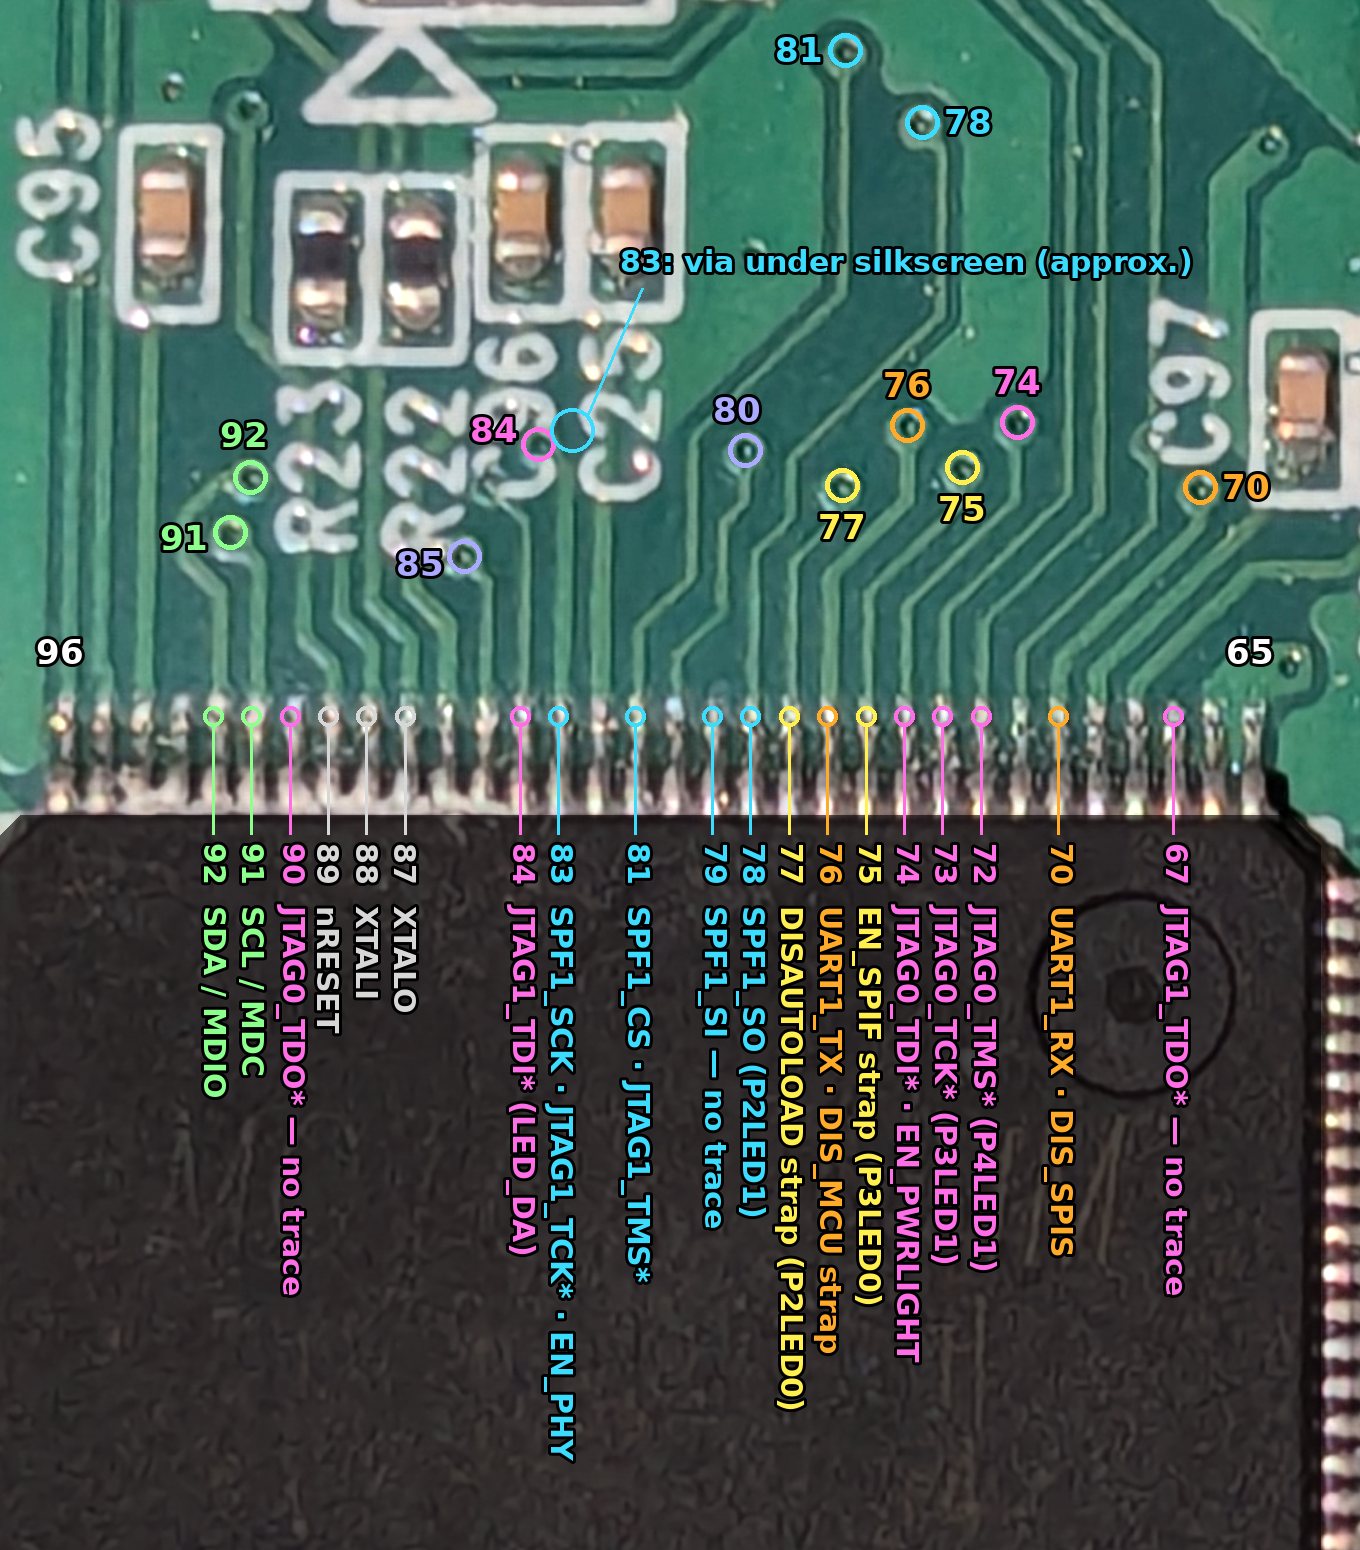
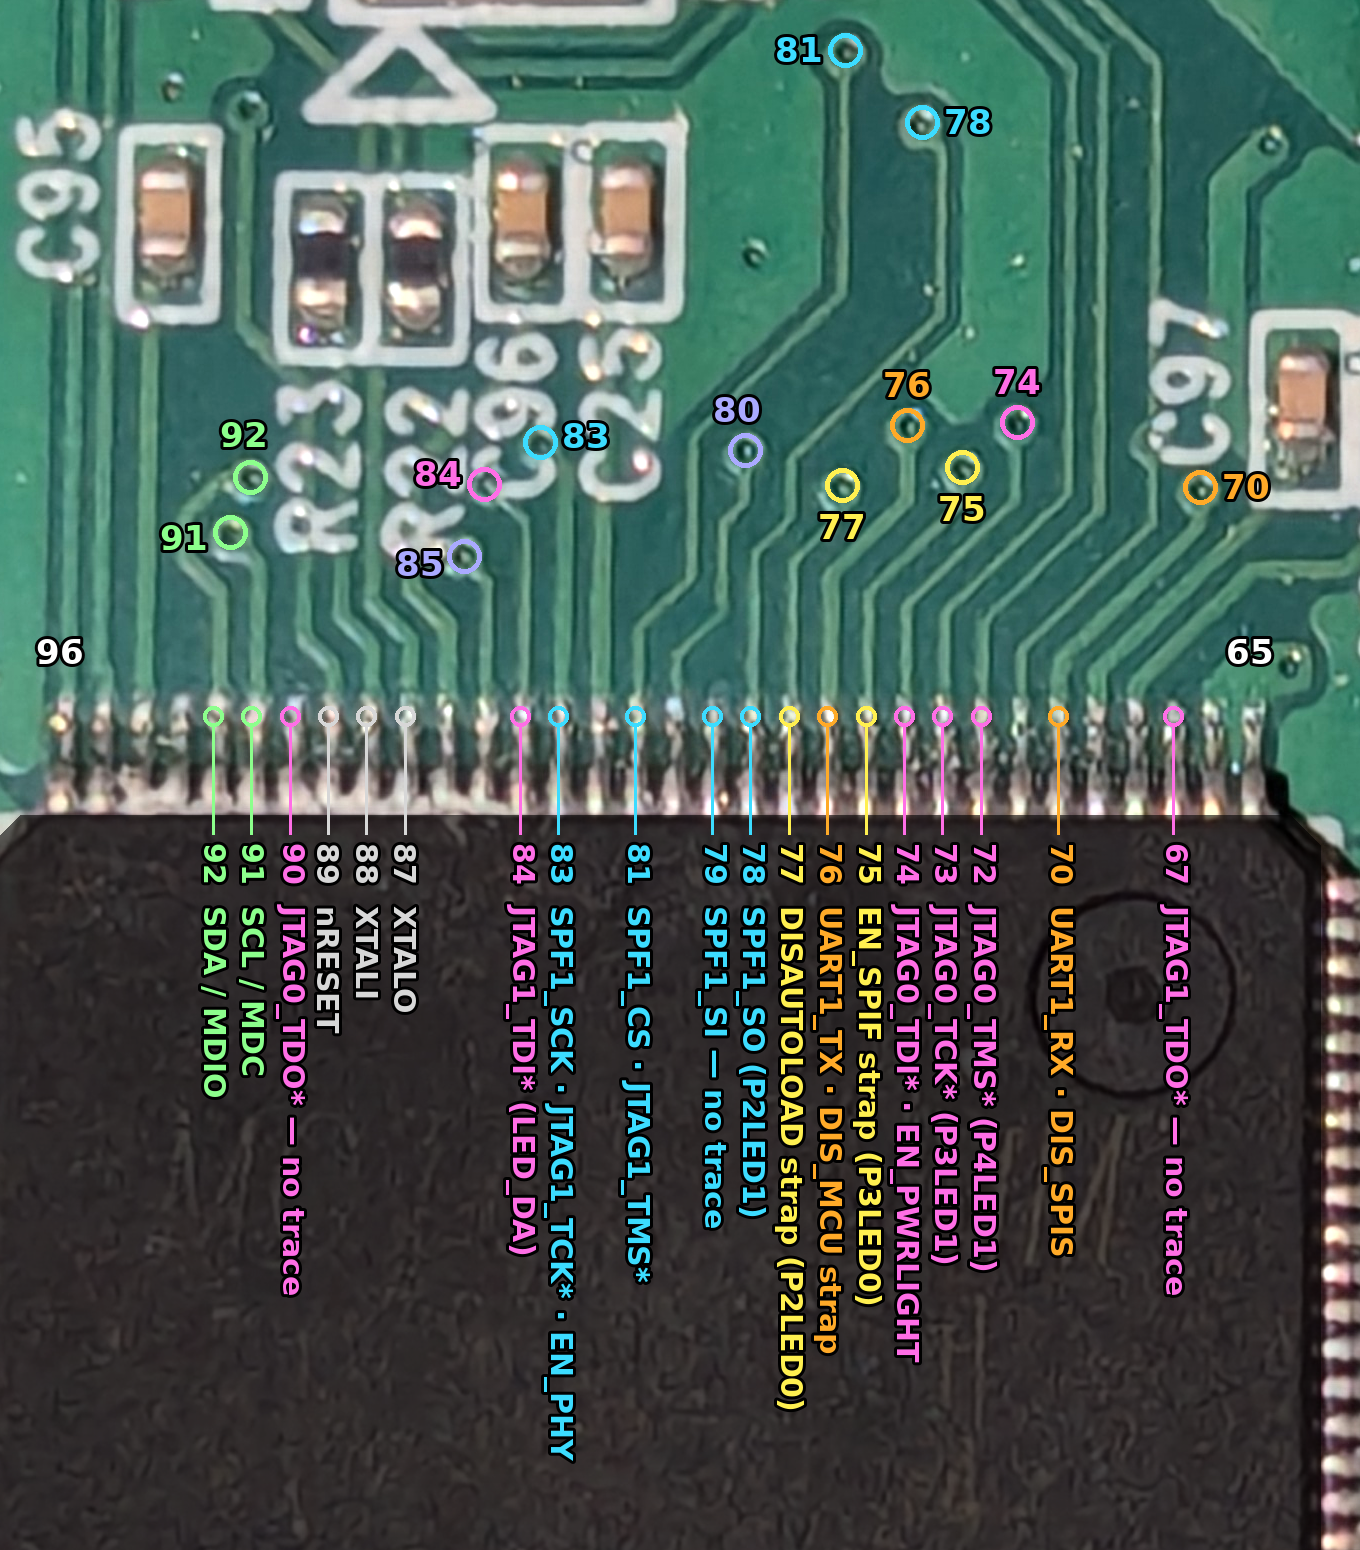
Mark the vias of U4 pins 83 and 84 where their traces end
The trace from the lead of pin 83 ends at the via inside the C of the C96
label, and the trace from pin 84 ends at the via against that label's lower
left edge.

Claude-Session: https://claude.ai/code/session_01T8XQLu2hHeQn1gVyGrjSAf

Changed region(s): [[0.4324, 0.1548, 0.8956, 0.1858], [0.3088, 0.2477, 0.4632, 0.3406]]

diff --git a/research/lx-is601f-board/annotate.py b/research/lx-is601f-board/annotate.py
@@ -123,14 +123,11 @@ c.text(2430, 1232, '65', fs, WHITE, 'mm'); c.text(1240, 1232, '96', fs, WHITE, '
 VIAS = [(80, 1925, 1030, OTHER, -8, -40), (77, 2022, 1065, STRAP, 0, 42), (76, 2087, 1005, UART, 0, -40),
         (75, 2142, 1047, STRAP, 0, 42), (74, 2197, 1002, JTAG, 0, -40), (70, 2380, 1067, UART, 46, 0),
         (78, 2102, 702, SPI, 46, 0), (81, 2025, 630, SPI, -46, 0),
-        (85, 1644, 1136, OTHER, -44, 8), (84, 1718, 1024, JTAG, -44, -14),
+        (85, 1644, 1136, OTHER, -44, 8), (84, 1664, 1064, JTAG, -46, -10), (83, 1720, 1022, SPI, 46, -6),
         (92, 1430, 1057, I2C, -6, -42), (91, 1410, 1112, I2C, -46, 6)]
 for n, x, y, col, dx, dy in VIAS:
     c.ring(x, y, col)
     c.text(x + dx, y + dy, str(n), fs, col, 'mm')
-c.ring(1752, 1010, SPI, r=22, width=4)                    # pin 83: via hidden under the silkscreen
-c.line(1768, 994, 1822, 868, SPI)
-c.text(1800, 842, '83: via under silkscreen (approx.)', font(30), SPI, 'lm')
 c.save('u4-pins-top-edge-annotated.png')
 
 # ---------- right edge: pins 46 to 55 and the SPF0 resistors ----------

diff --git a/research/motorcomm-debug-pins.md b/research/motorcomm-debug-pins.md
@@ -404,6 +404,7 @@ The routes were read from photos of the top side only, and the lead numbers were
 
 - The vias for pins [70](#sch-pin-70) and [76](#sch-pin-76) sit just above the chip in the [annotated photo of the top edge](#annotated-top-edge).
 - Pin [76](#sch-pin-76) is both UART1 TX and the `DIS_MCU` strap.
+- The vias of pins [83](#sch-pin-83) and [84](#sch-pin-84) sit in the `C96` silkscreen label: the via of pin 83 inside the letter C, the via of pin 84 against its lower left edge.
 - Pins [46](#sch-pin-46), [47](#sch-pin-47), [67](#sch-pin-67), [79](#sch-pin-79) and [90](#sch-pin-90) are "Lead only", so a wire has to be soldered to the lead itself, at 0.4 mm pitch.
 - On the flash buses SI is the chip's output to the flash DI pin, and SO is the flash DO pin into the chip.
 - [YT9215SCH V1.03](../datasheets/motorcomm/YT9215SCH_Datasheet_V1.03_2025-02-10.pdf) names pin [90](#sch-pin-90) GPIO47 and pin [67](#sch-pin-67) GPIO31.
